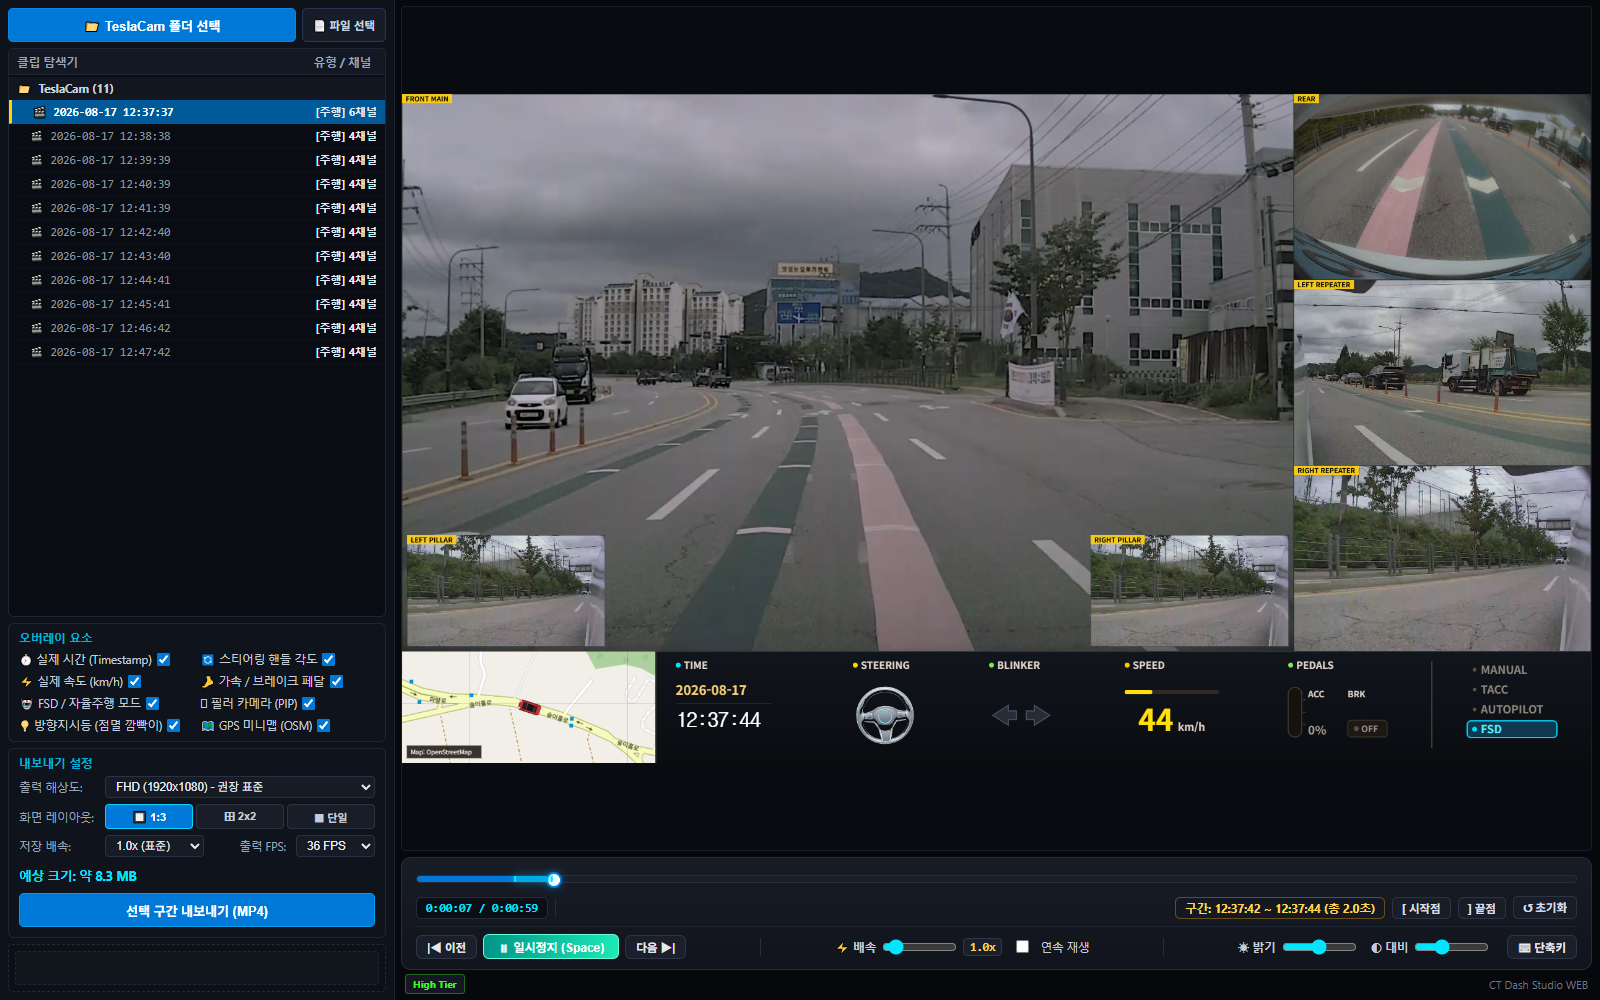
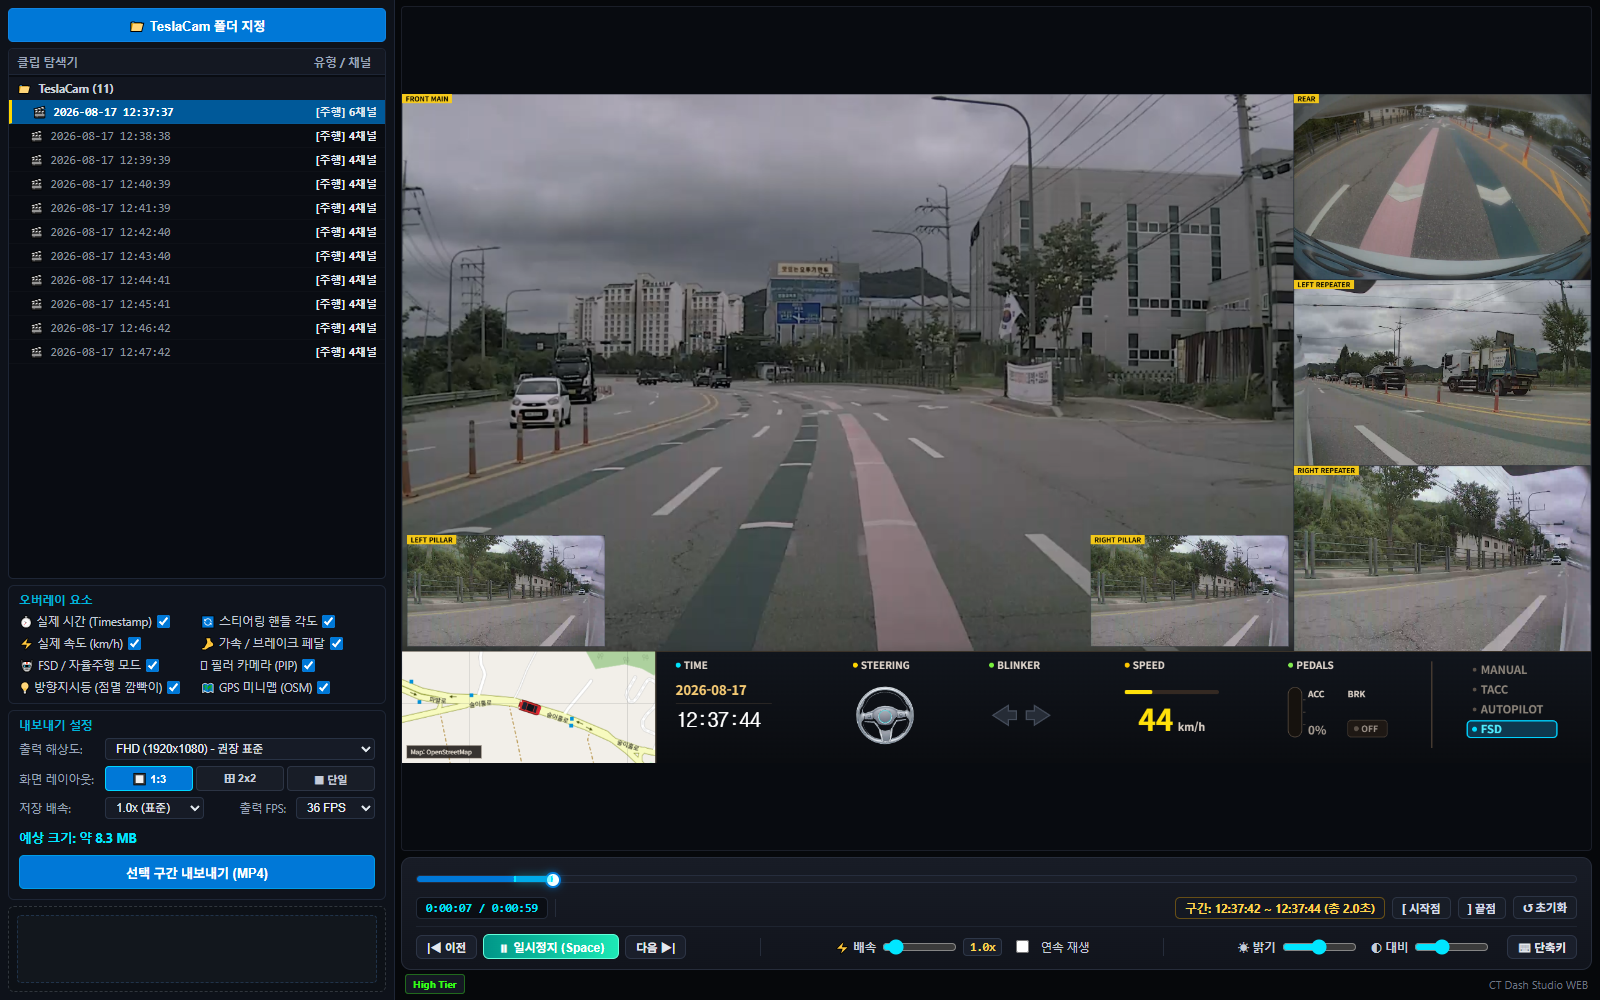
fix: remove file selection button and restore full ad box placeholder dimensions without text

diff --git a/src/style.css b/src/style.css
@@ -68,15 +68,8 @@ body {
   box-sizing: border-box;
 }
 
-.load-btn-group {
-  display: flex;
-  gap: 6px;
-  width: 100%;
-  flex-shrink: 0;
-}
-
 .btn-folder-load {
-  flex: 1;
+  width: 100%;
   height: 34px;
   background-color: var(--accent-blue);
   color: #ffffff;
@@ -90,37 +83,12 @@ body {
   justify-content: center;
   gap: 6px;
   transition: all 0.15s ease;
-  white-space: nowrap;
+  flex-shrink: 0;
 }
 
 .btn-folder-load:hover {
   background-color: #1084e3;
   box-shadow: 0 0 10px rgba(0, 120, 215, 0.45);
-}
-
-.btn-folder-load-sub {
-  height: 34px;
-  padding: 0 10px;
-  background-color: #161c28;
-  color: #c9d4e5;
-  font-size: 11.5px;
-  font-weight: 600;
-  border: 1px solid #28374f;
-  border-radius: 5px;
-  cursor: pointer;
-  display: flex;
-  align-items: center;
-  justify-content: center;
-  gap: 4px;
-  transition: all 0.15s ease;
-  white-space: nowrap;
-  flex-shrink: 0;
-}
-
-.btn-folder-load-sub:hover {
-  background-color: #222c3f;
-  color: #ffffff;
-  border-color: var(--accent-cyan);
 }
 
 /* 1-1. 클립 목록 섹션 (PC 데스크톱: 남은 공간 차지 & 내부 탐색기만 스크롤) */
@@ -825,25 +793,30 @@ body {
   font-weight: bold;
 }
 
-/* 광고 배너 영역 (추후 광고용 자리 예약 - 글자 없음) */
+/* 광고 배너 영역 */
 .ad-box-group {
-  padding: 6px;
+  padding: 8px;
   background: #0d1117;
-  border: 1px dashed #242b38;
-  min-height: 48px;
-  height: 48px;
+  border: 1px dashed #30363d;
+  min-height: 84px;
   display: flex;
   align-items: center;
   justify-content: center;
-  border-radius: 4px;
 }
 
 .ad-card-placeholder {
   width: 100%;
   height: 100%;
-  background: rgba(22, 27, 34, 0.4);
-  border: 1px dashed rgba(88, 166, 255, 0.12);
-  border-radius: 3px;
+  min-height: 68px;
+  display: flex;
+  align-items: center;
+  justify-content: center;
+  background: rgba(22, 27, 34, 0.6);
+  border: 1px dashed rgba(88, 166, 255, 0.2);
+  border-radius: 4px;
+  padding: 8px 6px;
+  position: relative;
+  box-sizing: border-box;
 }
 
 /* 푸터 바 */

diff --git a/src/main.ts b/src/main.ts
@@ -327,9 +327,8 @@ class CTDashcamStudioApp {
     tierModal?.addEventListener('click', (e) => {
       if (e.target === tierModal) closeTierModal();
     });
-    // 1. Open Folder / Files Buttons & Fallback Inputs
+    // 1. Open Folder Button & Fallback Inputs
     const btnOpenFolder = document.getElementById('btn-open-folder');
-    const btnOpenFiles = document.getElementById('btn-open-files');
     const fallbackFolderInput = document.getElementById('fallback-folder-input') as HTMLInputElement;
     const fallbackFileInput = document.getElementById('fallback-file-input') as HTMLInputElement;
 
@@ -349,18 +348,11 @@ class CTDashcamStudioApp {
         }
       }
 
-      // 2) 다른 컴퓨터(HTTP 원격 접속 등)나 구형 브라우저에서는 HTML5 표준 webkitdirectory 폴더 선택 창 실행
+      // 2) 다른 컴퓨터(HTTP 원격 접속 등)에서는 HTML5 표준 webkitdirectory 폴더 선택 창 실행
       if (fallbackFolderInput) {
         fallbackFolderInput.value = '';
         fallbackFolderInput.click();
       } else if (fallbackFileInput) {
-        fallbackFileInput.value = '';
-        fallbackFileInput.click();
-      }
-    });
-
-    btnOpenFiles?.addEventListener('click', () => {
-      if (fallbackFileInput) {
         fallbackFileInput.value = '';
         fallbackFileInput.click();
       }

diff --git a/index.html b/index.html
@@ -48,17 +48,11 @@
 
           <!-- 1-1. 클립 목록 섹션 (모바일 탭: clips) -->
           <div class="sidebar-section mobile-tab-section active" data-mobile-tab="clips">
-            <div class="load-btn-group">
-              <button id="btn-open-folder" class="btn btn-folder-load" title="TeslaCam 폴더 지정 (권장)">
-                📁 TeslaCam 폴더 선택
-              </button>
-              <button id="btn-open-files" class="btn btn-folder-load-sub" title="개별 MP4 파일 직접 선택">
-                📄 파일 선택
-              </button>
-            </div>
+            <button id="btn-open-folder" class="btn btn-folder-load">
+              📁 TeslaCam 폴더 지정
+            </button>
             <!-- 폴더 선택 전용 인풋 (다른 PC / HTTP 접속 환경 지원) -->
             <input type="file" id="fallback-folder-input" webkitdirectory directory multiple style="display: none;" />
-            <!-- 개별 파일 선택 전용 인풋 -->
             <input type="file" id="fallback-file-input" multiple accept="video/mp4,video/*" style="display: none;" />
 
             <!-- 클립 탐색기 테이블 -->
